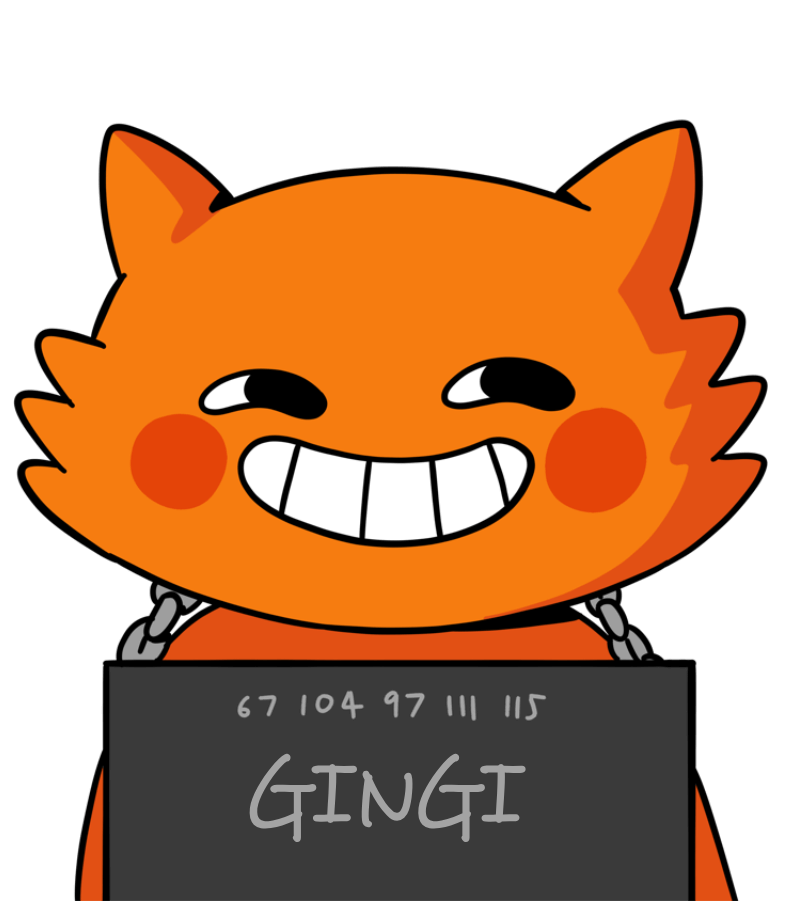
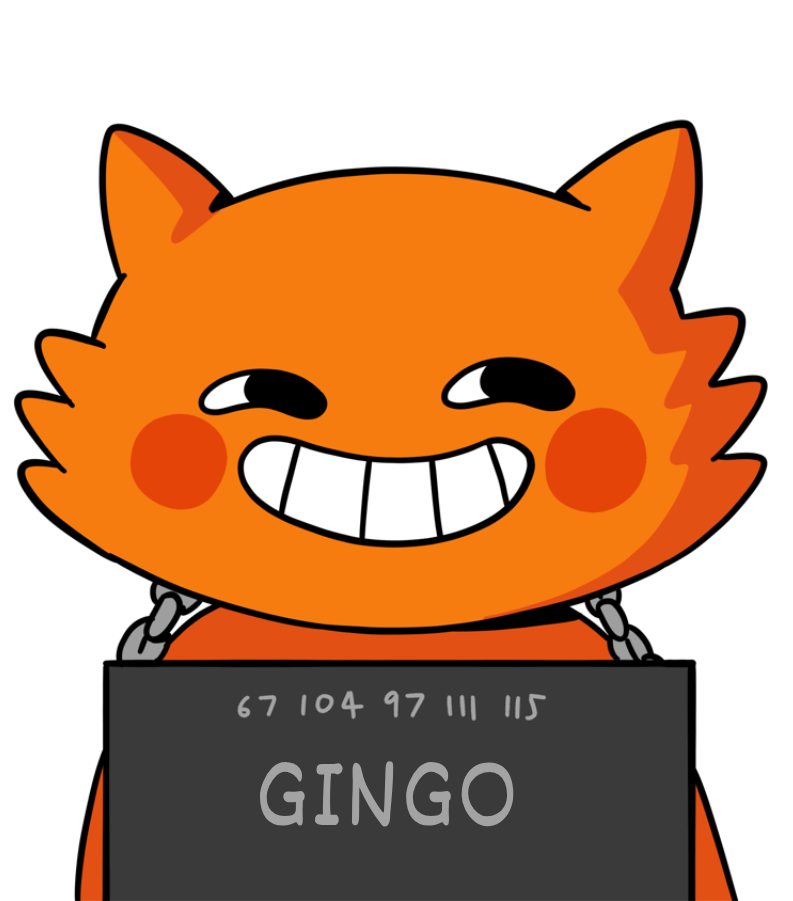
1

Changed region(s): [[0.3026, 0.8391, 0.6658, 0.9323]]

diff --git a/index.html b/index.html
@@ -3,9 +3,9 @@
 
 <head>
   <meta charset="utf-8">
-  <title>The Sparky Cat | $GINGI</title>
+  <title>The Sparky Cat | $GINGO</title>
   <meta content="width=device-width, initial-scale=1" name="viewport">
-  <meta content="The Ginger Cat" name="$GINGI">
+  <meta content="The Ginger Cat" name="$GINGO">
   <link href="css/normalize.css" rel="stylesheet" type="text/css">
   <link href="css/style.css" rel="stylesheet" type="text/css">
   <link href="css/bstyle.css" rel="stylesheet" type="text/css">
@@ -28,7 +28,7 @@ font-family: 'Super Squad';
   <div class="section_hero">
     <a data-w-id="4e8d95c4-39d8-cf17-89f1-7575d3437792"
       style="-webkit-transform:translate3d(0, 0, 0) scale3d(1, 1, 1) rotateX(0) rotateY(0) rotateZ(-4deg) skew(0, 0);-moz-transform:translate3d(0, 0, 0) scale3d(1, 1, 1) rotateX(0) rotateY(0) rotateZ(-4deg) skew(0, 0);-ms-transform:translate3d(0, 0, 0) scale3d(1, 1, 1) rotateX(0) rotateY(0) rotateZ(-4deg) skew(0, 0);transform:translate3d(0, 0, 0) scale3d(1, 1, 1) rotateX(0) rotateY(0) rotateZ(-4deg) skew(0, 0)"
-      href="https://pump.fun/13fr1Fg5ny4G6omCtcBBBSykLp8Sa9mnazh1Tfrb4ump" class="buy w-button">BUY $GINGI</a>
+      href="https://pump.fun/[TBA]" class="buy w-button">BUY $GINGO</a>
     <img src="images/liane_left.svg" loading="lazy" alt="" class="liane_left">
     <img src="images/liane_right.svg" loading="lazy" alt="" class="laine_right">
     <div class="grass_hero">
@@ -50,15 +50,15 @@ font-family: 'Super Squad';
           dominant-baseline: central;
         }
       </style>
-      <text class="rico-text" x="50%" y="35%">GINGI</text>
+      <text class="rico-text" x="50%" y="35%">GINGO</text>
     </svg>
 
 
     <img src="images/rico-h.png" loading="lazy" sizes="100vw" srcset="images/rico-h.png 500w, images/rico-h.png 793w"
       alt="" class="chara_hero">
     <div class="links_hero">
-      <a href="https://t.me/gingisolfun" class="tg w-button" target="blank"></a>
-      <a href="https://x.com/gingisolfun
+      <a href="https://t.me/jgingosolfun" class="tg w-button" target="blank"></a>
+      <a href="https://x.com/jgingosolfun
 " class="x w-button" target="blank"></a>
 
     </div>
@@ -66,8 +66,8 @@ font-family: 'Super Squad';
   <div class="separator_ca">
     <div class="block_ca">
       <div class="ca_in">
-        <div class="ca">13fr1Fg5ny4G6omCtcBBBSykLp8Sa9mnazh1Tfrb4ump</div>
-        <div class="ca_mobile">13fr1Fg5ny4G6omCtcBBBSykLp8Sa9mnazh1Tfrb4ump</div>
+        <div class="ca">[TBA]</div>
+        <div class="ca_mobile">[TBA]</div>
         <a href="#" class="copy w-button">COPY</a>
       </div>
     </div>
@@ -80,7 +80,7 @@ font-family: 'Super Squad';
   </div>
   <div class="section_about_bottom">
     <div class="block_para">
-      <p class="paragraph">Yeah, I’m GINGI the cat. The troublemaker, the chaos starter, the one who keeps things
+      <p class="paragraph">Yeah, I’m GINGO the cat. The troublemaker, the chaos starter, the one who keeps things
         interesting. I don’t just cause a
         scene—I own it. But don’t let the mischief fool you—I’ve got big plans, and they’re just getting started. You’re
         here
@@ -97,7 +97,7 @@ font-family: 'Super Squad';
     <div class="block_tokenomics">
       <div class="tokenomics_in">
         <div class="tokenomics_details">
-          <div class="h2">TOTAL SUPPLY = 1 BILLION $GINGI</div>
+          <div class="h2">TOTAL SUPPLY = 1 BILLION $GINGO</div>
         </div>
         <div class="tokenomics_details">
           <div class="h2">MINT = REVOKED</div>
@@ -113,10 +113,10 @@ font-family: 'Super Squad';
       class="chara_diamond">
   </div>
   <div class="section_join">
-    <div class="h1 h1_3">GINGI THE<br>CHAOTIC CAT</div>
+    <div class="h1 h1_3">GINGO THE<br>CHAOTIC CAT</div>
     <div class="block_links">
-      <a href="https://t.me/gingisolfun" class="tg w-button" target="blank"></a>
-      <a href="https://x.com/gingisolfun" class="x w-button" target="blank"></a>
+      <a href="https://t.me/jgingosolfun" class="tg w-button" target="blank"></a>
+      <a href="https://x.com/jgingosolfun" class="x w-button" target="blank"></a>
 
     </div><img src="images/rico.png" loading="lazy" sizes="(max-width: 479px) 90vw, 410.7749938964844px"
       srcset="images/rico.png 500w, images/rico.png 800w" alt="" class="chara_footer">
